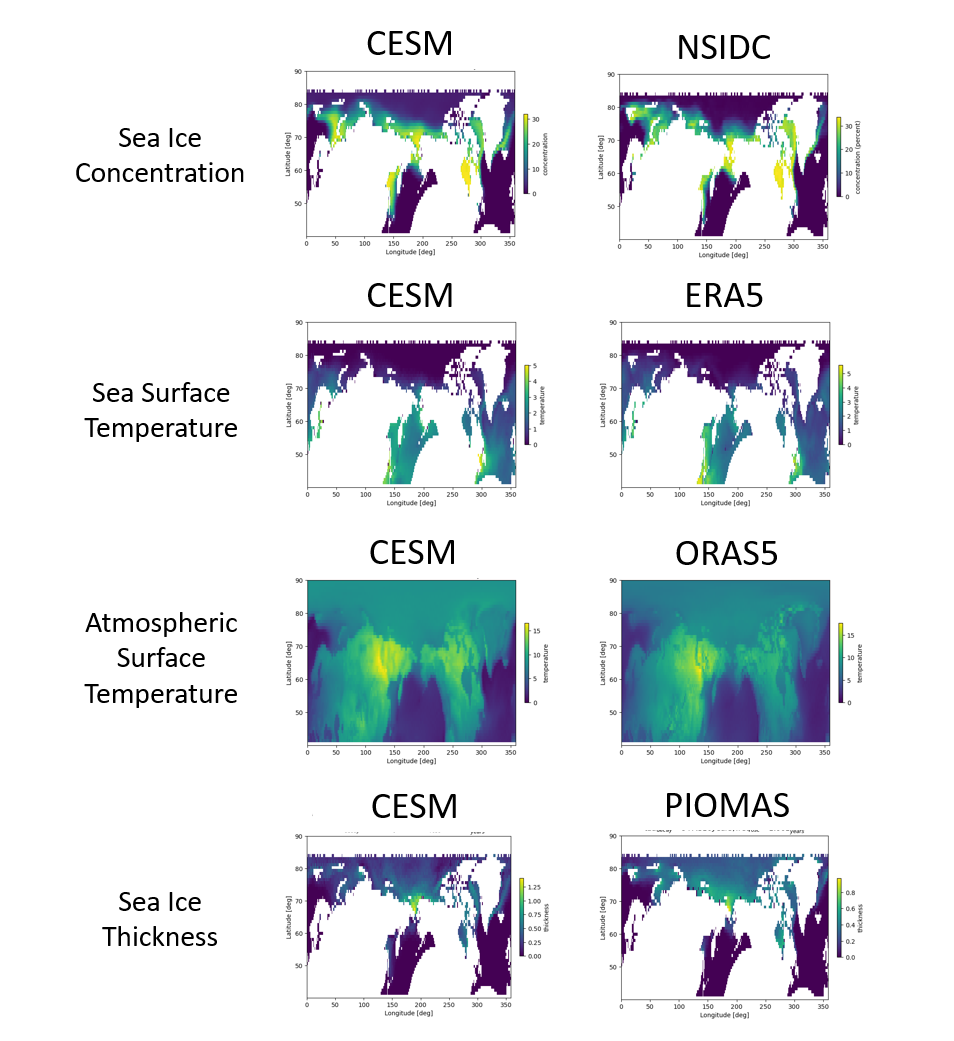
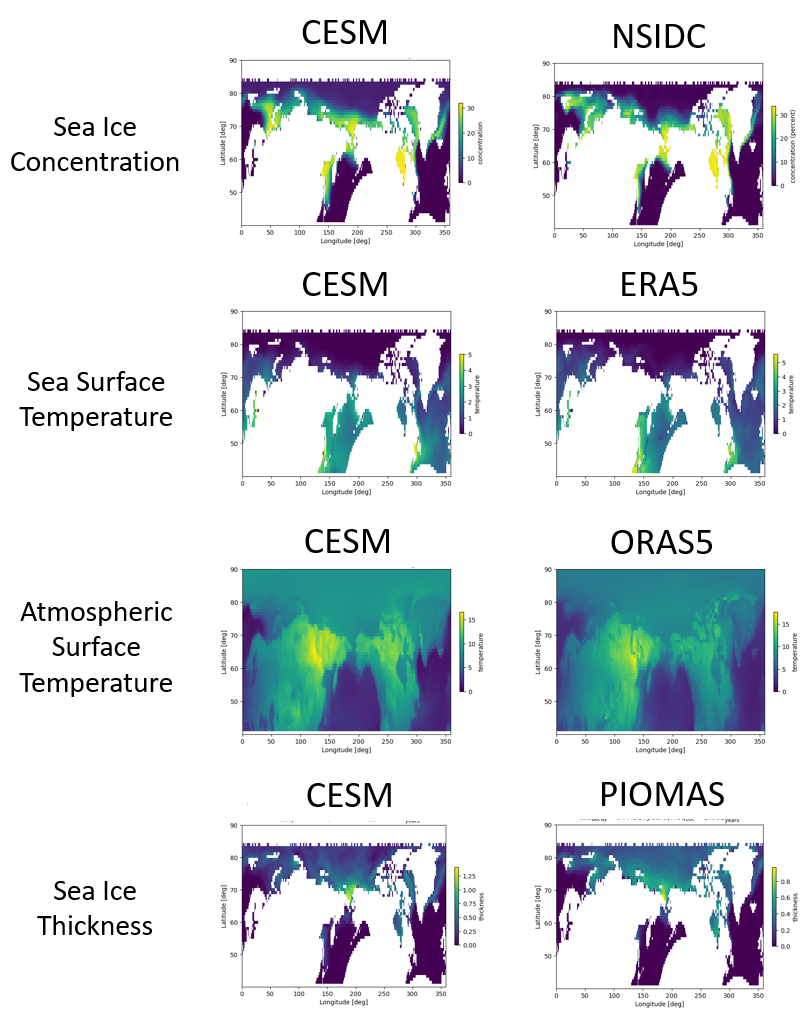
trimmed image whitespace

diff --git a/docs/Results/initial_motivation_results.md b/docs/Results/initial_motivation_results.md
@@ -21,7 +21,7 @@ Training a FKPM on NSIDC sea ice concentrations (ICEFRAC) enables identification
 We see that the extent of the mean and annual modes is qualitatively similar between  observational-based and CESM-based FKPMs. Additionally, the regions of high annual variance are highlighted as expected in the annual modes, while the regions of highest sea-ice concentration are highlighted in the mean modes. Next, we move to a more quantitative analysis looking at the accuracy of predictions generated by a FKPM trained from observational data.
 
 <figure>
-<img src="../../figs/results/Sea_ice_only_forecasting.png" alt="FKPM sea ice only monthly accuracy" style="width:90%">
+<img src="../../figs/results/Sea_ice_only_forecasting2.png" alt="FKPM sea ice only monthly accuracy" style="width:90%">
 <figcaption align = "center" style="width:90%"><b>Figure 3:</b> A FKPM was trained on monthly NSIDC (sea ice concentration only) data from 1997-2000. The Koopman model was then run forward to forecast monthly predictions from 2001-2004. The pointwise RMSE of the FKPM (blue), CESM1 (orange), and climatological mean (green) were then computed from the observed monthly NSIDC data. </figcaption>
 </figure>
 
@@ -36,14 +36,14 @@ We continue the development of the HAIKU system by including additional climate 
 We compare observational-based and CESM-based FKPMs trained on all climate variables. The mean modes are shown in Figure 4 and match expectation for the time average of these variables across the training interval.
 
 <figure>
-<img src="../../figs/results/CESM_NSIDC_compare_multiple_variables_mean_mode2.png" alt="mean modes" style="width:90%">
-<figcaption align = "center" style="width:10%"><b>Figure 4:</b> The mean modes are visualized for the CESM-based FKPM (left) and the observational-based FKPM (right). The results are qualitatively similar and also match physical expectations for the time average of these variables.  </figcaption>
+<img src="../../figs/results/CESM_NSIDC_compare_multiple_variables_mean_mode2.PNG" alt="mean modes" style="width:90%">
+<figcaption align = "center" style="width:90%"><b>Figure 4:</b> The mean modes are visualized for the CESM-based FKPM (left) and the observational-based FKPM (right). The results are qualitatively similar and also match physical expectations for the time average of these variables.  </figcaption>
 </figure>
 
 The annual modes are shown in Figure 5 and match expectation for the typical annual fluctuation of these variables across the training interval.
 
 <figure>
-<img src="../../figs/results/CESM_NSIDC_compare_multiple_variables_annual_mode.png" alt="annual modes" style="width:90%">
+<img src="../../figs/results/CESM_NSIDC_compare_multiple_variables_annual_mode2.PNG" alt="annual modes" style="width:90%">
 <figcaption align = "center" style="width:90%"><b>Figure 5:</b> The annual modes are visualized for the CESM-based FKPM (left) and the observational-based FKPM (right). The results are qualitatively similar and also match physical expectations for annual variance of these variables.  </figcaption>
 </figure>
 
